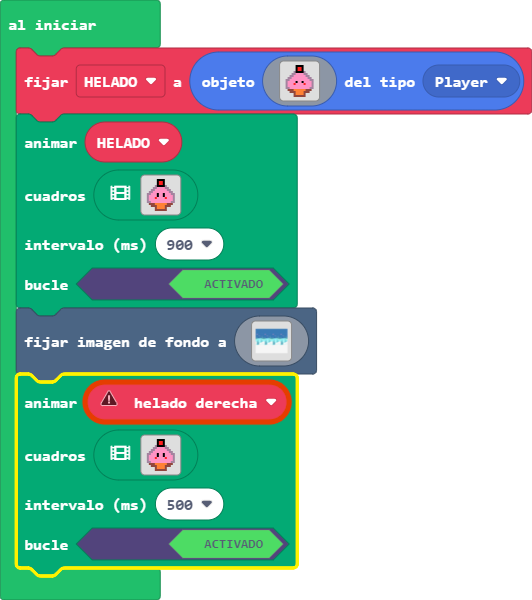
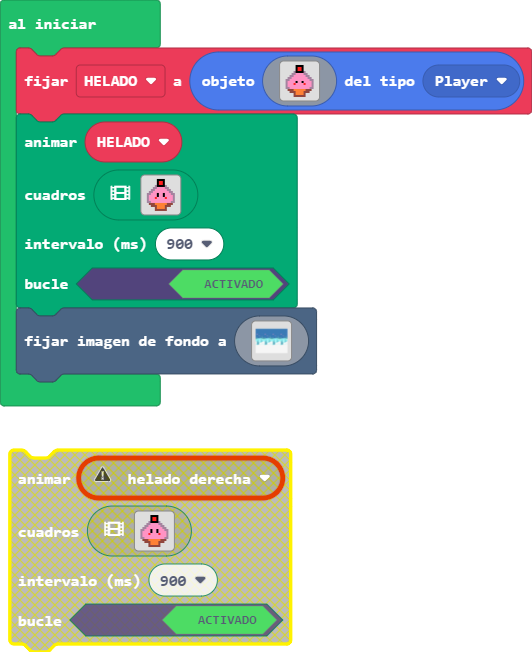
Actualizar main.blocks, main.ts, images.g.jres, images.g.ts

diff --git a/images.g.ts b/images.g.ts
@@ -10,178 +10,6 @@ namespace myImages {
 
     helpers._registerFactory("animation", function(name: string) {
         switch(helpers.stringTrim(name)) {
-            case "helado derecha":
-            case "anim2":return [img`
-. . . . . . f f f f . . . . . . 
-. . . . . . f 2 2 f . . . . . . 
-. . . . . . f 2 2 f . . . . . . 
-. . . . . b f f f f b . . . . . 
-. . . . b b 3 3 3 3 b b . . . . 
-. . . b b 3 3 3 3 3 3 b b . . . 
-. . b b 3 3 3 3 3 3 3 3 b b . . 
-. b b 3 3 3 f 3 3 f 3 3 3 b b . 
-. b 3 3 3 3 f 3 3 f 3 3 3 3 b . 
-. b 3 3 3 2 3 3 3 3 2 3 3 3 b . 
-. b 3 3 3 3 3 3 3 3 3 3 3 3 b . 
-. b b 3 3 3 3 3 3 3 3 3 3 b b . 
-. . e e e 4 4 4 4 4 4 e e e . . 
-. . . e e e 4 4 4 4 e e e . . . 
-. . . . . e 4 4 4 4 e . . . . . 
-. . . . . e e e e e e . . . . . 
-`, img`
-. . . . . . . . . . . . . . . . 
-. . . . . . . . . . . . . . . . 
-. . . . . . f f f f . . . . . . 
-. . . . . . f 2 2 f . . . . . . 
-. . . . . . f f f f . . . . . . 
-. . . . . . b b b b . . . . . . 
-. . . . b b 3 3 3 3 b b . . . . 
-. . . b 3 3 3 3 3 3 3 3 b . . . 
-. . b 3 3 3 f 3 3 f 3 3 3 b . . 
-. b 3 3 3 3 f 3 3 f 3 3 3 3 b . 
-. 3 3 3 3 2 3 3 3 3 2 3 3 3 3 . 
-. e e e 4 4 4 4 4 4 4 4 e e e . 
-. . e e 4 4 4 4 4 4 4 4 e e . . 
-. . . e e 4 4 4 4 4 4 e e . . . 
-. . . . e e 4 4 4 4 e e . . . . 
-. . . . . e e e e e e . . . . . 
-`, img`
-. . . . . . . . . . . . . . . . 
-. . . . . . . . . . . . . . . . 
-. . . . . . . . . . . . . . . . 
-. . . . . . . . . . . . . . . . 
-. . . . . . f f f f . . . . . . 
-. . . . . . f 2 2 f . . . . . . 
-. . . . . b f f f f b . . . . . 
-. . . . b 3 3 3 3 3 3 b . . . . 
-. . . b 3 3 3 f 3 3 f 3 b . . . 
-. . b 3 3 3 3 f 3 3 f 3 3 b . . 
-. b 3 3 3 3 2 3 3 3 3 2 3 3 b . 
-. b 3 3 3 3 3 3 3 3 3 3 3 3 b . 
-. . e e 4 4 4 4 4 4 4 4 e e . . 
-. . e e e 4 4 4 4 4 4 e e e . . 
-. . . e e e 4 4 4 4 e e e . . . 
-. . . . e e e e e e e e . . . . 
-`, img`
-. . . . . . . . . . . . . . . . 
-. . . . . . f f f f . . . . . . 
-. . . . . . f 2 2 f . . . . . . 
-. . . . . . f f f f . . . . . . 
-. . . . . . b 3 3 b . . . . . . 
-. . . . . b 3 3 3 3 b . . . . . 
-. . . . . 3 3 f 3 3 f b . . . . 
-. . . . b 3 3 f 3 3 f b . . . . 
-. . . b 3 3 2 3 3 3 3 2 b . . . 
-. . . b 3 3 3 3 3 3 3 3 3 b . . 
-. . e e e 4 4 4 4 4 4 e e e . . 
-. . . e e 4 4 4 4 4 4 e e . . . 
-. . . . e 4 4 4 4 4 4 e . . . . 
-. . . . . e 4 4 4 4 e . . . . . 
-. . . . . . e e e e . . . . . . 
-. . . . . . . . . . . . . . . . 
-`, img`
-. . . . . . f f f f . . . . . . 
-. . . . . . f 2 2 f . . . . . . 
-. . . . . . f 2 2 f . . . . . . 
-. . . . . . b 3 3 b . . . . . . 
-. . . . . b 3 3 3 3 b b . . . . 
-. . . . b 3 3 3 f 3 3 f b . . . 
-. . . b 3 3 3 3 f 3 3 f 3 b . . 
-. . b 3 3 3 3 2 3 3 3 3 2 b . . 
-. . b 3 3 3 3 3 3 3 3 3 3 b . . 
-. . . e 4 4 4 4 4 4 4 4 e . . . 
-. . . e e 4 4 4 4 4 4 e e . . . 
-. . . . e e 4 4 4 4 4 e e . . . 
-. . . . . e e 4 4 4 e e . . . . 
-. . . . . . e e e e e . . . . . 
-. . . . . . . . . . . . . . . . 
-. . . . . . . . . . . . . . . . 
-`, img`
-. . . . . . . . . . f f f f . . 
-. . . . . . . . . . f 2 2 f . . 
-. . . . . . . . . . f 2 2 f . . 
-. . . . . . . . b b 3 3 3 b . . 
-. . . . . . . b 3 3 3 3 3 b . . 
-. . . . . . b 3 3 3 f 3 3 f b b 
-. . . . . b 3 3 3 3 f 3 3 f 3 b 
-. . . . . b 3 3 3 2 3 3 3 3 2 b 
-. . . . . b 3 3 3 3 3 3 3 3 3 b 
-. . . . . e 4 4 4 4 4 4 4 4 4 e 
-. . . . . . e 4 4 4 4 4 4 4 e . 
-. . . . . . . e 4 4 4 4 4 e . . 
-. . . . . . . . e e e e e . . . 
-. . . . . . . . . . . . . . . . 
-. . . . . . . . . . . . . . . . 
-. . . . . . . . . . . . . . . . 
-`, img`
-. . . . . . . . . . f f f f . . 
-. . . . . . . . . . f 2 2 f . . 
-. . . . . . . . . . f 2 2 f . . 
-. . . . . . . . . . f f f f . . 
-. . . . . . . . . b 3 3 3 3 b . 
-. . . . . . . . b 3 3 f 3 3 f b 
-. . . . . . . b 3 3 3 f 3 3 f 3 
-. . . . . . b 3 3 3 2 3 3 3 3 2 
-. . . . . . b 3 3 3 3 3 3 3 3 3 
-. . . . . . e 4 4 4 4 4 4 4 4 4 
-. . . . . . . e 4 4 4 4 4 4 4 4 
-. . . . . . . . e 4 4 4 4 4 4 e 
-. . . . . . . . . e 4 4 4 4 4 e 
-. . . . . . . . . . e e e e e . 
-. . . . . . . . . . . . . . . . 
-. . . . . . . . . . . . . . . . 
-`, img`
-. . . . . . . . . . f f f f . . 
-. . . . . . . . . . f 2 2 f . . 
-. . . . . . . . . . f 2 2 f . . 
-. . . . . . . . . . f f f f . . 
-. . . . . . . . . b 3 3 3 3 b . 
-. . . . . . . . b 3 3 3 3 3 3 b 
-. . . . . . . b 3 3 3 f 3 3 f 3 
-. . . . . . b 3 3 3 3 f 3 3 f 3 
-. . . . . . b 3 3 3 2 3 3 3 3 2 
-. . . . . b 3 3 3 3 3 3 3 3 3 3 
-. . . . . . b 4 4 4 4 4 4 4 4 4 
-. . . . . . . e e 4 4 4 4 4 4 4 
-. . . . . . . . e e 4 4 4 4 4 e 
-. . . . . . . . . e e 4 4 4 4 e 
-. . . . . . . . . . . e e e e . 
-. . . . . . . . . . . . . . . . 
-`, img`
-. . . . . . . . . . f f f f . . 
-. . . . . . . . . . f 2 2 f . . 
-. . . . . . . . . . f 2 2 f . . 
-. . . . . . . . . . f f f f . . 
-. . . . . . . . . b 3 3 3 3 b . 
-. . . . . . . . . b 3 3 3 3 3 b 
-. . . . . . . . b 3 3 3 3 3 3 3 
-. . . . . . . . b 3 3 3 f 3 3 f 
-. . . . . . . b 3 3 3 3 f 3 3 f 
-. . . . . . . b 3 3 3 2 3 3 3 3 
-. . . . . . . b 3 3 3 3 3 3 3 3 
-. . . . . . . . e 4 4 4 4 4 4 4 
-. . . . . . . . e e 4 4 4 4 4 4 
-. . . . . . . . . e e 4 4 4 4 4 
-. . . . . . . . . . e e 4 4 4 e 
-. . . . . . . . . . . e e e e . 
-`, img`
-. . . . . . . . . . f f f f . . 
-. . . . . . . . . . f 2 2 f . . 
-. . . . . . . . . . f 2 2 f . . 
-. . . . . . . . . . f f f f . . 
-. . . . . . . . . b 3 3 3 3 b . 
-. . . . . . . . . b 3 3 3 3 3 b 
-. . . . . . . . b 3 3 3 3 3 3 3 
-. . . . . . . . b 3 3 3 3 3 f 3 
-. . . . . . . b 3 3 3 3 3 3 f 3 
-. . . . . . b 3 3 3 3 3 3 2 3 3 
-. . . . . . b 3 3 3 3 3 3 3 3 3 
-. . . . . . . e e 4 4 4 4 4 4 4 
-. . . . . . . . e e 4 4 4 4 4 4 
-. . . . . . . . . e e 4 4 4 4 4 
-. . . . . . . . . . e e 4 4 4 e 
-. . . . . . . . . . . e e e e . 
-`];
             case "helado derretido":
             case "anim1":return [img`
 . . . . . . f f f f . . . . . . 
@@ -353,6 +181,178 @@ namespace myImages {
 . . . e e 4 4 3 4 4 3 e e . . . 
 . . . . . e 4 4 3 4 e . . . . . 
 . . . . . e e e e e e . . . . . 
+`];
+            case "helado derecha":
+            case "anim2":return [img`
+. . . . . . f f f f . . . . . . 
+. . . . . . f 2 2 f . . . . . . 
+. . . . . . f 2 2 f . . . . . . 
+. . . . . b f f f f b . . . . . 
+. . . . b b 3 3 3 3 b b . . . . 
+. . . b b 3 3 3 3 3 3 b b . . . 
+. . b b 3 3 3 3 3 3 3 3 b b . . 
+. b b 3 3 3 f 3 3 f 3 3 3 b b . 
+. b 3 3 3 3 f 3 3 f 3 3 3 3 b . 
+. b 3 3 3 2 3 3 3 3 2 3 3 3 b . 
+. b 3 3 3 3 3 3 3 3 3 3 3 3 b . 
+. b b 3 3 3 3 3 3 3 3 3 3 b b . 
+. . e e e 4 4 4 4 4 4 e e e . . 
+. . . e e e 4 4 4 4 e e e . . . 
+. . . . . e 4 4 4 4 e . . . . . 
+. . . . . e e e e e e . . . . . 
+`, img`
+. . . . . . . . . . . . . . . . 
+. . . . . . . . . . . . . . . . 
+. . . . . . f f f f . . . . . . 
+. . . . . . f 2 2 f . . . . . . 
+. . . . . . f f f f . . . . . . 
+. . . . . . b b b b . . . . . . 
+. . . . b b 3 3 3 3 b b . . . . 
+. . . b 3 3 3 3 3 3 3 3 b . . . 
+. . b 3 3 3 f 3 3 f 3 3 3 b . . 
+. b 3 3 3 3 f 3 3 f 3 3 3 3 b . 
+. 3 3 3 3 2 3 3 3 3 2 3 3 3 3 . 
+. e e e 4 4 4 4 4 4 4 4 e e e . 
+. . e e 4 4 4 4 4 4 4 4 e e . . 
+. . . e e 4 4 4 4 4 4 e e . . . 
+. . . . e e 4 4 4 4 e e . . . . 
+. . . . . e e e e e e . . . . . 
+`, img`
+. . . . . . . . . . . . . . . . 
+. . . . . . . . . . . . . . . . 
+. . . . . . . . . . . . . . . . 
+. . . . . . . . . . . . . . . . 
+. . . . . . f f f f . . . . . . 
+. . . . . . f 2 2 f . . . . . . 
+. . . . . b f f f f b . . . . . 
+. . . . b 3 3 3 3 3 3 b . . . . 
+. . . b 3 3 3 f 3 3 f 3 b . . . 
+. . b 3 3 3 3 f 3 3 f 3 3 b . . 
+. b 3 3 3 3 2 3 3 3 3 2 3 3 b . 
+. b 3 3 3 3 3 3 3 3 3 3 3 3 b . 
+. . e e 4 4 4 4 4 4 4 4 e e . . 
+. . e e e 4 4 4 4 4 4 e e e . . 
+. . . e e e 4 4 4 4 e e e . . . 
+. . . . e e e e e e e e . . . . 
+`, img`
+. . . . . . . . . . . . . . . . 
+. . . . . . f f f f . . . . . . 
+. . . . . . f 2 2 f . . . . . . 
+. . . . . . f f f f . . . . . . 
+. . . . . . b 3 3 b . . . . . . 
+. . . . . b 3 3 3 3 b . . . . . 
+. . . . . 3 3 f 3 3 f b . . . . 
+. . . . b 3 3 f 3 3 f b . . . . 
+. . . b 3 3 2 3 3 3 3 2 b . . . 
+. . . b 3 3 3 3 3 3 3 3 3 b . . 
+. . e e e 4 4 4 4 4 4 e e e . . 
+. . . e e 4 4 4 4 4 4 e e . . . 
+. . . . e 4 4 4 4 4 4 e . . . . 
+. . . . . e 4 4 4 4 e . . . . . 
+. . . . . . e e e e . . . . . . 
+. . . . . . . . . . . . . . . . 
+`, img`
+. . . . . . f f f f . . . . . . 
+. . . . . . f 2 2 f . . . . . . 
+. . . . . . f 2 2 f . . . . . . 
+. . . . . . b 3 3 b . . . . . . 
+. . . . . b 3 3 3 3 b b . . . . 
+. . . . b 3 3 3 f 3 3 f b . . . 
+. . . b 3 3 3 3 f 3 3 f 3 b . . 
+. . b 3 3 3 3 2 3 3 3 3 2 b . . 
+. . b 3 3 3 3 3 3 3 3 3 3 b . . 
+. . . e 4 4 4 4 4 4 4 4 e . . . 
+. . . e e 4 4 4 4 4 4 e e . . . 
+. . . . e e 4 4 4 4 4 e e . . . 
+. . . . . e e 4 4 4 e e . . . . 
+. . . . . . e e e e e . . . . . 
+. . . . . . . . . . . . . . . . 
+. . . . . . . . . . . . . . . . 
+`, img`
+. . . . . . . . . . f f f f . . 
+. . . . . . . . . . f 2 2 f . . 
+. . . . . . . . . . f 2 2 f . . 
+. . . . . . . . b b 3 3 3 b . . 
+. . . . . . . b 3 3 3 3 3 b . . 
+. . . . . . b 3 3 3 f 3 3 f b b 
+. . . . . b 3 3 3 3 f 3 3 f 3 b 
+. . . . . b 3 3 3 2 3 3 3 3 2 b 
+. . . . . b 3 3 3 3 3 3 3 3 3 b 
+. . . . . e 4 4 4 4 4 4 4 4 4 e 
+. . . . . . e 4 4 4 4 4 4 4 e . 
+. . . . . . . e 4 4 4 4 4 e . . 
+. . . . . . . . e e e e e . . . 
+. . . . . . . . . . . . . . . . 
+. . . . . . . . . . . . . . . . 
+. . . . . . . . . . . . . . . . 
+`, img`
+. . . . . . . . . . f f f f . . 
+. . . . . . . . . . f 2 2 f . . 
+. . . . . . . . . . f 2 2 f . . 
+. . . . . . . . . . f f f f . . 
+. . . . . . . . . b 3 3 3 3 b . 
+. . . . . . . . b 3 3 f 3 3 f b 
+. . . . . . . b 3 3 3 f 3 3 f 3 
+. . . . . . b 3 3 3 2 3 3 3 3 2 
+. . . . . . b 3 3 3 3 3 3 3 3 3 
+. . . . . . e 4 4 4 4 4 4 4 4 4 
+. . . . . . . e 4 4 4 4 4 4 4 4 
+. . . . . . . . e 4 4 4 4 4 4 e 
+. . . . . . . . . e 4 4 4 4 4 e 
+. . . . . . . . . . e e e e e . 
+. . . . . . . . . . . . . . . . 
+. . . . . . . . . . . . . . . . 
+`, img`
+. . . . . . . . . . f f f f . . 
+. . . . . . . . . . f 2 2 f . . 
+. . . . . . . . . . f 2 2 f . . 
+. . . . . . . . . . f f f f . . 
+. . . . . . . . . b 3 3 3 3 b . 
+. . . . . . . . b 3 3 3 3 3 3 b 
+. . . . . . . b 3 3 3 f 3 3 f 3 
+. . . . . . b 3 3 3 3 f 3 3 f 3 
+. . . . . . b 3 3 3 2 3 3 3 3 2 
+. . . . . b 3 3 3 3 3 3 3 3 3 3 
+. . . . . . b 4 4 4 4 4 4 4 4 4 
+. . . . . . . e e 4 4 4 4 4 4 4 
+. . . . . . . . e e 4 4 4 4 4 e 
+. . . . . . . . . e e 4 4 4 4 e 
+. . . . . . . . . . . e e e e . 
+. . . . . . . . . . . . . . . . 
+`, img`
+. . . . . . . . . . f f f f . . 
+. . . . . . . . . . f 2 2 f . . 
+. . . . . . . . . . f 2 2 f . . 
+. . . . . . . . . . f f f f . . 
+. . . . . . . . . b 3 3 3 3 b . 
+. . . . . . . . . b 3 3 3 3 3 b 
+. . . . . . . . b 3 3 3 3 3 3 3 
+. . . . . . . . b 3 3 3 f 3 3 f 
+. . . . . . . b 3 3 3 3 f 3 3 f 
+. . . . . . . b 3 3 3 2 3 3 3 3 
+. . . . . . . b 3 3 3 3 3 3 3 3 
+. . . . . . . . e 4 4 4 4 4 4 4 
+. . . . . . . . e e 4 4 4 4 4 4 
+. . . . . . . . . e e 4 4 4 4 4 
+. . . . . . . . . . e e 4 4 4 e 
+. . . . . . . . . . . e e e e . 
+`, img`
+. . . . . . . . . . f f f f . . 
+. . . . . . . . . . f 2 2 f . . 
+. . . . . . . . . . f 2 2 f . . 
+. . . . . . . . . . f f f f . . 
+. . . . . . . . . b 3 3 3 3 b . 
+. . . . . . . . . b 3 3 3 3 3 b 
+. . . . . . . . b 3 3 3 3 3 3 3 
+. . . . . . . . b 3 3 3 3 3 f 3 
+. . . . . . . b 3 3 3 3 3 3 f 3 
+. . . . . . b 3 3 3 3 3 3 2 3 3 
+. . . . . . b 3 3 3 3 3 3 3 3 3 
+. . . . . . . e e 4 4 4 4 4 4 4 
+. . . . . . . . e e 4 4 4 4 4 4 
+. . . . . . . . . e e 4 4 4 4 4 
+. . . . . . . . . . e e 4 4 4 e 
+. . . . . . . . . . . e e e e . 
 `];
         }
         return null;

diff --git a/main.ts b/main.ts
@@ -1,4 +1,3 @@
-let helado_derecha: Sprite = null
 let HELADO = sprites.create(img`
     . . . . . . f f f f . . . . . . 
     . . . . . . f 2 2 f . . . . . . 
@@ -145,9 +144,3 @@ scene.setBackgroundImage(img`
     1111111111111111111111111111111111111111111111111111111111111111111111111111111111111111111111111111111111111111111111111111111111111111111111111111111111111111
     1111111111111111111111111111111111111111111111111111111111111111111111111111111111111111111111111111111111111111111111111111111111111111111111111111111111111111
     `)
-animation.runImageAnimation(
-helado_derecha,
-assets.animation`helado derecha`,
-500,
-true
-)
